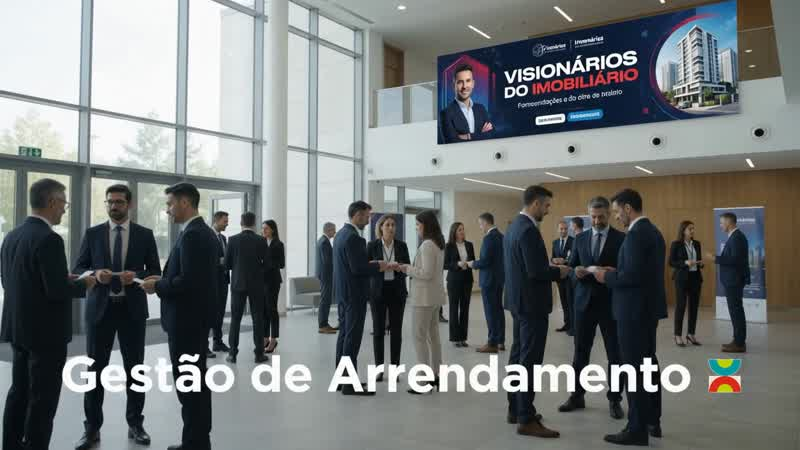
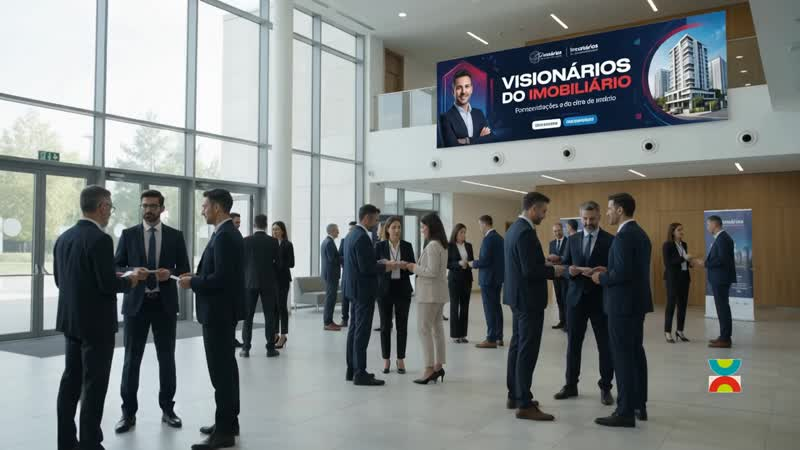
fix(#33): hero poster without burned-in text; landing copy without dashes (#42)
- posters (1280w, 800w) from the video's first frame (0 s), before
  "Gestão de Arrendamento" fades in; phones and reduced-motion users no
  longer see only half of the message (the video shows both parts)
- landing copy: no em/en dashes (test in landing.test.ts)

diff --git a/src/lib/landing.test.ts b/src/lib/landing.test.ts
@@ -41,6 +41,7 @@ describe("Landing-Inhalt (#33)", () => {
     expect(text).not.toMatch(/assistente de IA|integraç/i);
     expect(text).not.toMatch(/conformidade|compliant|certificad|RGPD|BUILT/i);
     expect(text).not.toMatch(/todas as alterações/);
+    expect(text).not.toMatch(/[—–]/); // keine Gedankenstriche im Text
   });
 
   it("Marke nur über {app}, nie als fester Name", () => {
